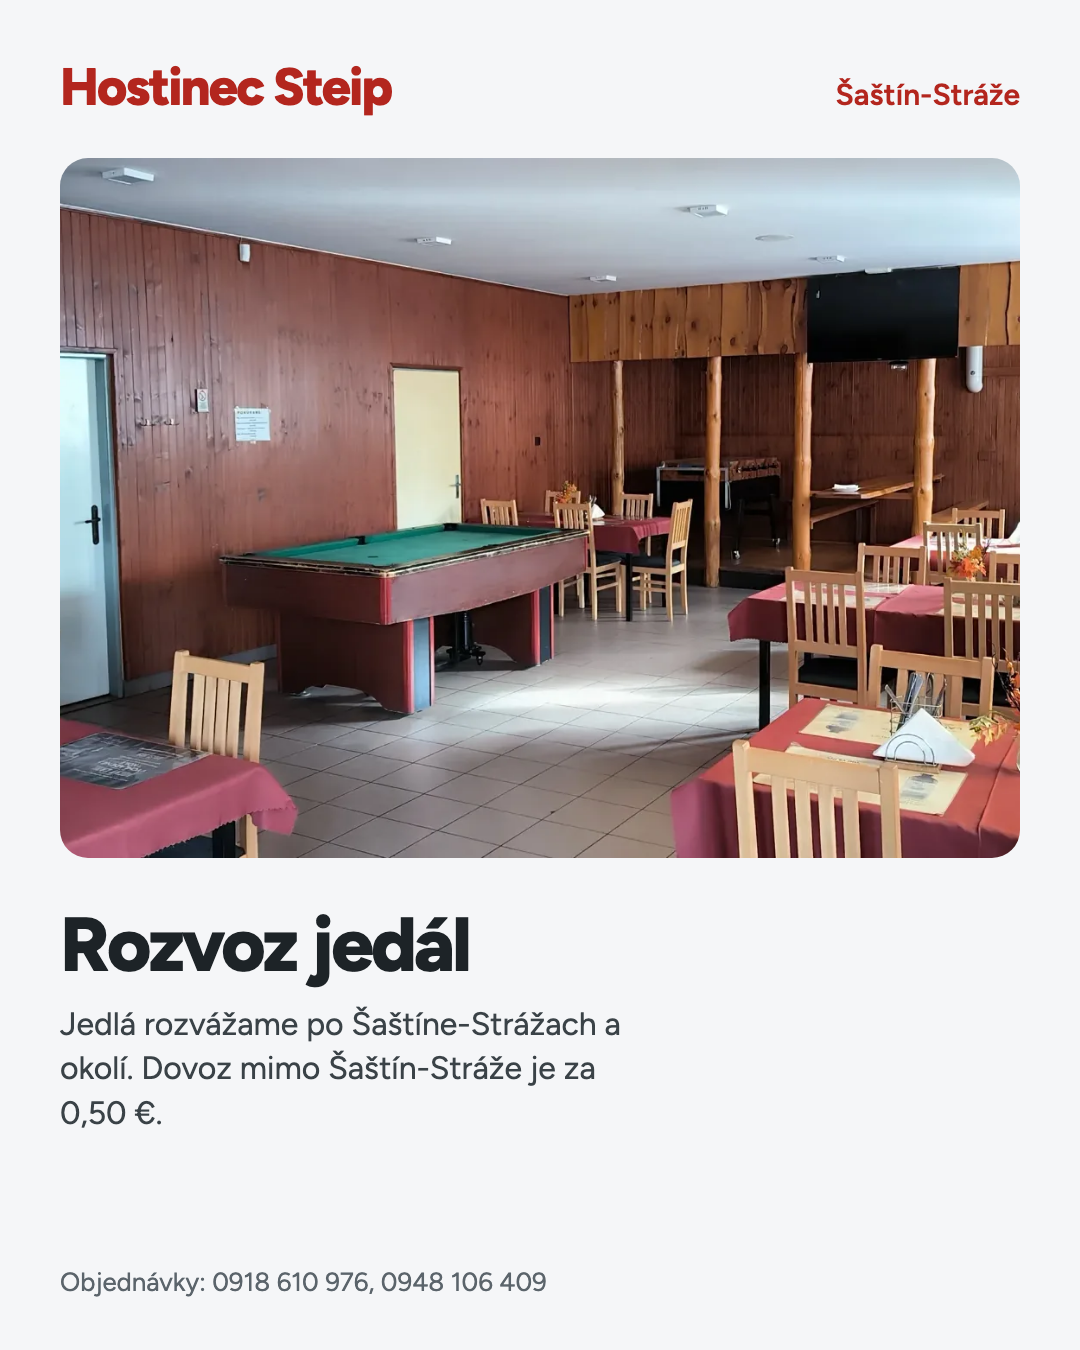
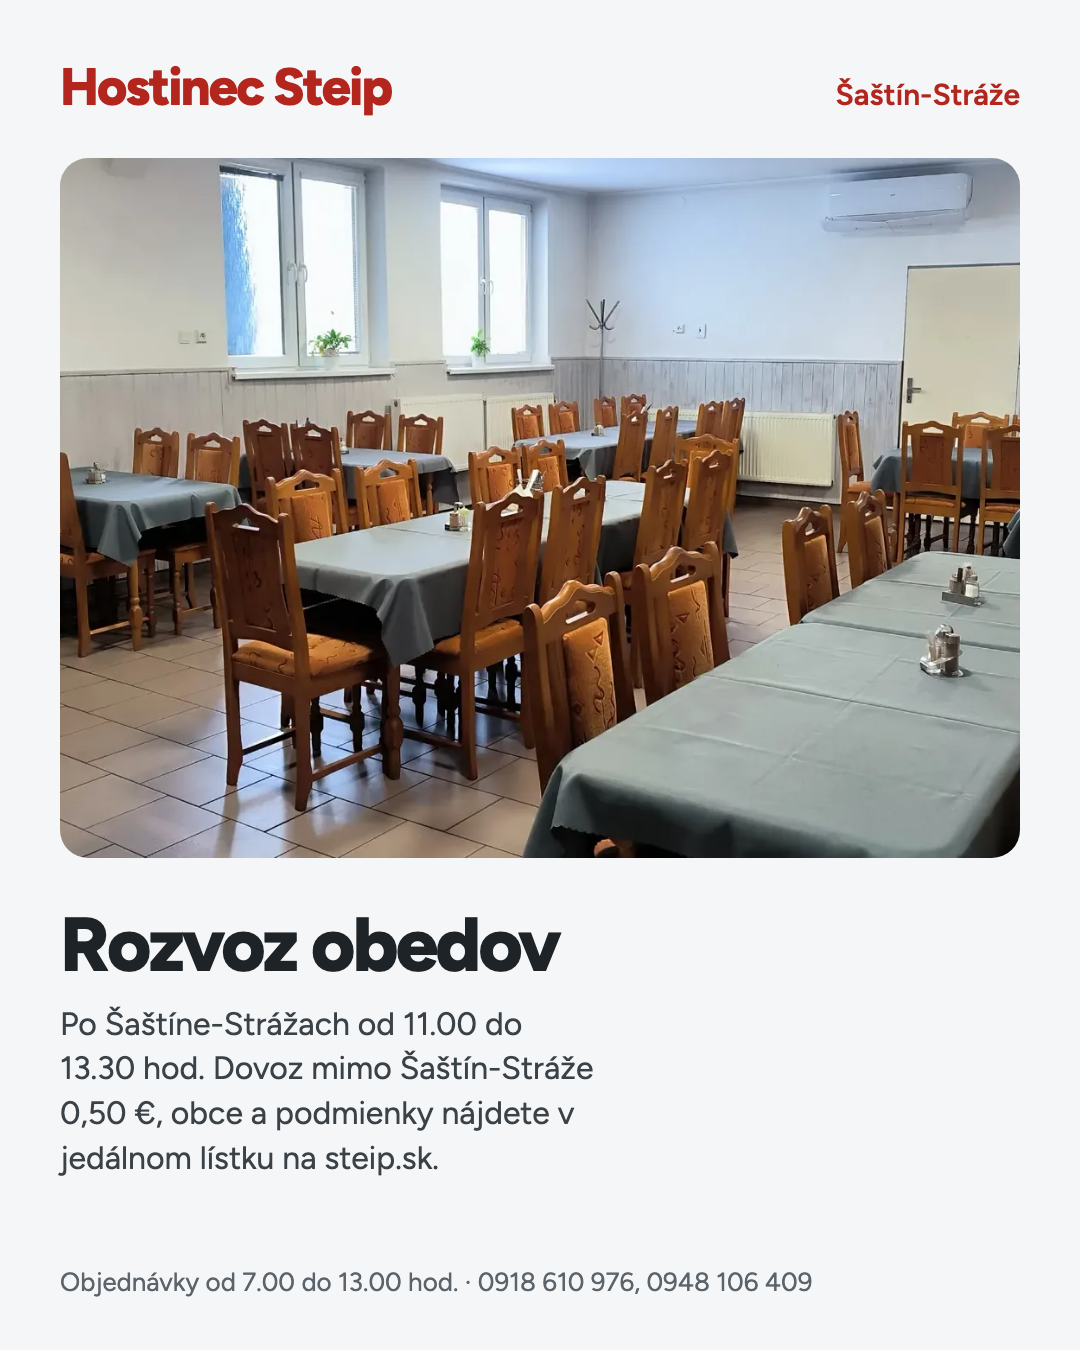
Príspevok Rozvoz obedov: časy rozvozu a objednávok z lístka, fotka jedálne (klient 3. 11.)

diff --git a/socialne-zdroj/index.html b/socialne-zdroj/index.html
@@ -37,10 +37,10 @@ img { display: block; }
 <div class="post__pata">Objednávky: 0918 610 976, 0948 106 409</div>
 </section><section class="post" data-nazov="rozvoz">
 <div class="post__hl"><span class="logo">Hostinec Steip</span><span>Šaštín-Stráže</span></div>
-<div class="foto"><img src="../assets/foto/foto-20261015-145757.webp" alt=""></div>
-<h2>Rozvoz jedál</h2>
-<p>Jedlá rozvážame po Šaštíne-Strážach a okolí. Dovoz mimo Šaštín-Stráže je za 0,50 €.</p>
-<div class="post__pata">Objednávky: 0918 610 976, 0948 106 409</div>
+<div class="foto"><img src="../assets/foto/foto-20261015-145938.webp" alt=""></div>
+<h2>Rozvoz obedov</h2>
+<p>Po Šaštíne-Strážach od 11.00 do 13.30 hod. Dovoz mimo Šaštín-Stráže 0,50 €, obce a podmienky nájdete v jedálnom lístku na steip.sk.</p>
+<div class="post__pata">Objednávky od 7.00 do 13.00 hod. · 0918 610 976, 0948 106 409</div>
 </section><section class="post" data-nazov="capujeme">
 <div class="post__hl"><span class="logo">Hostinec Steip</span><span>Šaštín-Stráže</span></div>
 <div class="foto"><img src="../assets/foto/foto-20261015-145738.webp" alt=""></div>
